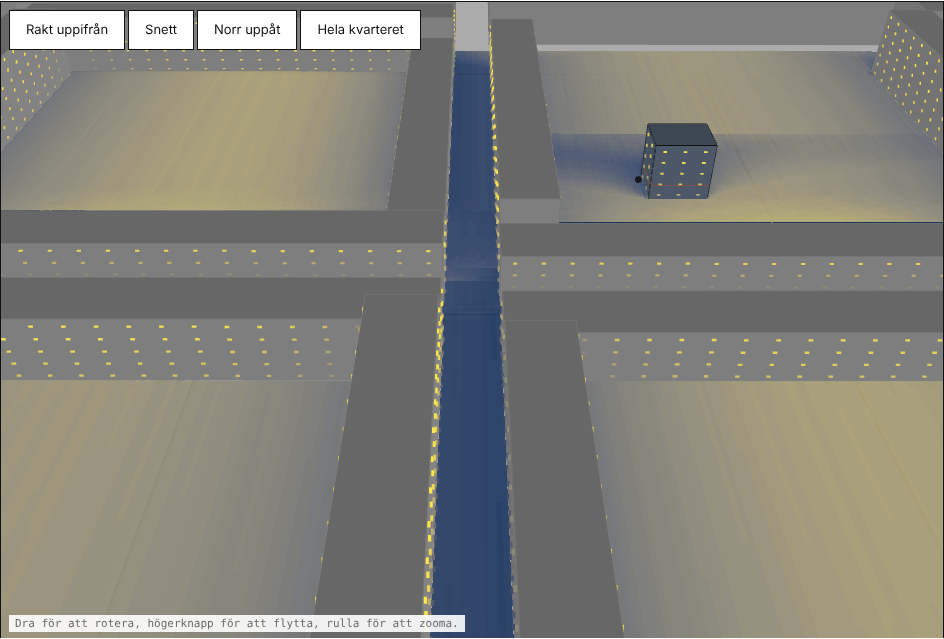
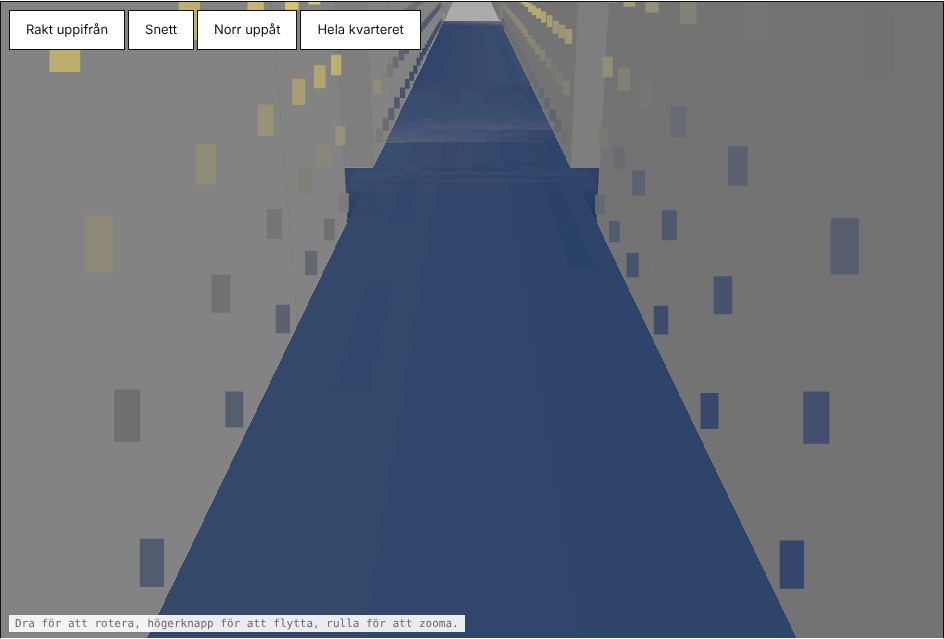
3D: färgkontroll (readPixels), punktFarger, färghantering i egen modul, VSC-bild längs gatan
Claude-Session: https://claude.ai/code/session_016wGtwwhwzUCjpQaE8vxEd6

diff --git a/webb/src/vy3d/scen.ts b/webb/src/vy3d/scen.ts
@@ -12,14 +12,12 @@
 import {
   BufferAttribute,
   BufferGeometry,
-  ColorManagement,
   DataTexture,
   DirectionalLight,
   DoubleSide,
   Float32BufferAttribute,
   Group,
   HemisphereLight,
-  LinearSRGBColorSpace,
   LineBasicMaterial,
   LineSegments,
   Mesh,
@@ -42,7 +40,8 @@ import {
 import { OrbitControls } from "three/examples/jsm/controls/OrbitControls.js";
 import type { Teckenforklaring } from "../fragor-typer.ts";
 import { byggnadText, fasadText, straleMotHojdfalt, type FasadVarden } from "./avlasning.ts";
-import { fargaCeller, fargFor, VSC_TECKENFORKLARING, vscSkillnadsskala } from "./farger.ts";
+import { stallInRenderare } from "./farghantering.ts";
+import { fargaCeller, fargFor, punktFarger, VSC_TECKENFORKLARING, vscSkillnadsskala } from "./farger.ts";
 import type { Behallare } from "./format.ts";
 import {
   byggnaderFran,
@@ -66,7 +65,7 @@ import { franScen, kameraPosition, kameraVinklar, SYNFALT_GRADER, tillScen, type
 import { arVattenYta, type SidKonfig, type Uppdelning } from "./lagerval.ts";
 import { rutNyckel, valjRutor, type Rut } from "./rutnat.ts";
 
-ColorManagement.enabled = false;
+// Färghanteringen är avslagen i farghantering.ts (datafärger = samma RGB som i 2D).
 
 const MARK_GRA = 0xe9e9e9;
 const HUS_OFORANDRAD = 0xd2d2d2;
@@ -195,7 +194,7 @@ export class Vy3d {
   ) {
     this.o = info.origo;
     this.renderer = new WebGLRenderer({ antialias: true, powerPreference: "high-performance", preserveDrawingBuffer: true });
-    this.renderer.outputColorSpace = LinearSRGBColorSpace;
+    stallInRenderare(this.renderer);
     this.renderer.setPixelRatio(Math.min(window.devicePixelRatio || 1, 2));
     this.renderer.setClearColor(0xf2f2f2, 1);
     this.renderer.shadowMap.enabled = false;
@@ -572,19 +571,10 @@ export class Vy3d {
     const skillnad = (d.skillnad as Float32Array | undefined) ?? null;
     const fore = (d.vsc_fore as Float32Array | undefined) ?? null;
     const data: FasadData = { antal: n, vsc, fore, skillnad, vaning: d.vaning as Uint16Array, byggnad: d.byggnad as Uint32Array, byggnadIds: h.byggnad_ids };
-    const farger = new Float32Array(n * 3);
     let storst = 0.5;
     if (skillnad) for (const v of skillnad) if (Number.isFinite(v)) storst = Math.max(storst, Math.abs(v));
     const tf: Teckenforklaring = f.jamfor && skillnad ? vscSkillnadsskala(storst) : VSC_TECKENFORKLARING;
-    for (let i = 0; i < n; i++) {
-      const v = f.jamfor && skillnad ? (skillnad[i] as number) : (vsc[i] as number);
-      const c = fargFor(tf, v);
-      // Punkt utan värde (ingen jämförelse eller inget resultat) ritas grå, aldrig som ett värde.
-      const rgb: [number, number, number] = c[3] === 0 ? (Number.isFinite(v) ? [235, 235, 235] : [154, 154, 154]) : [c[0], c[1], c[2]];
-      farger[i * 3] = rgb[0] / 255;
-      farger[i * 3 + 1] = rgb[1] / 255;
-      farger[i * 3 + 2] = rgb[2] / 255;
-    }
+    const farger = punktFarger(tf, f.jamfor && skillnad ? skillnad : vsc);
     const g = new BufferGeometry();
     g.setAttribute("position", new BufferAttribute(pos, 3));
     g.setAttribute("color", new BufferAttribute(farger, 3));

diff --git a/webb/src/vy3d/farger.test.ts b/webb/src/vy3d/farger.test.ts
@@ -1,7 +1,9 @@
 import assert from "node:assert/strict";
 import { test } from "node:test";
 import type { Teckenforklaring } from "../fragor-typer.ts";
-import { fargaCeller, fargFor, VSC_TECKENFORKLARING } from "./farger.ts";
+import { Color, ColorManagement, LinearSRGBColorSpace, NoToneMapping } from "three";
+import { stallInRenderare } from "./farghantering.ts";
+import { fargaCeller, fargFor, punktFarger, VSC_TECKENFORKLARING } from "./farger.ts";
 
 // Facit: serverns _sekventiell, _vatten och _skillnad (src/webb/resultatlager.py) för samma värden.
 const SEK: Teckenforklaring = { typ: "kontinuerlig", min: 0, max: 12, stopp: ["#00204d", "#31446b", "#666970", "#958f78", "#cbba69", "#ffea46"] };
@@ -59,4 +61,31 @@ test("fargaCeller färgar en textur ur uppskalade värden och lämnar 'inget vä
   const ut = new Uint8Array(12);
   fargaCeller(q, 0, 12, SEK, ut);
   assert.deepEqual(Array.from(ut), [0, 32, 77, 255, 255, 234, 70, 255, 0, 0, 0, 0]);
+});
+
+test("punktFarger: samma RGB som fargFor och teckenförklaringen, inte linjäriserat", () => {
+  const v = [0, 10, 16.4, 27, 40, Number.NaN];
+  const f = punktFarger(VSC_TECKENFORKLARING, v);
+  for (let i = 0; i < 5; i++) {
+    const c = fargFor(VSC_TECKENFORKLARING, v[i] as number);
+    assert.deepEqual([f[i * 3], f[i * 3 + 1], f[i * 3 + 2]].map((x) => Math.round((x as number) * 255)), [c[0], c[1], c[2]]);
+  }
+  assert.deepEqual([f[15], f[16], f[17]].map((x) => Math.round((x as number) * 255)), [154, 154, 154]);
+  // Mörkt blått stannar mörkt: en sRGB till linjär-omräkning skulle ge 0 för (0, 32, 77) men 8 på blå kanalen -> inte här.
+  assert.equal(Math.round((f[1] as number) * 255), 32);
+});
+
+test("renderarens färghantering är av: en färg i 3D är exakt den i 2D", () => {
+  // farghantering.ts slår av färghanteringen när den läses in; annars tolkar three.js vertexfärger som
+  // linjära och kodar om dem till sRGB vid utdata (mörka färger blir ljusa).
+  assert.equal(ColorManagement.enabled, false);
+  const r = { outputColorSpace: "srgb", toneMapping: 4 };
+  stallInRenderare(r);
+  assert.equal(r.outputColorSpace, LinearSRGBColorSpace);
+  assert.equal(r.toneMapping, NoToneMapping);
+  const c = new Color().setRGB(32 / 255, 77 / 255, 140 / 255);
+  assert.equal(Math.round(c.r * 255), 32);
+  assert.equal(Math.round(c.g * 255), 77);
+  assert.equal(Math.round(c.b * 255), 140);
+  assert.equal(new Color(0x00204d).g, 32 / 255);
 });

diff --git a/webb/src/vy3d/farger.ts b/webb/src/vy3d/farger.ts
@@ -64,3 +64,21 @@ export function fargaCeller(q: Uint16Array, lo: number, hi: number, tf: Teckenfo
     ut[i * 4 + 3] = c[3];
   }
 }
+
+/**
+ * Vertexfärger (0..1, samma RGB som `fargFor`, inte linjäriserade) för en punkt per värde. Punkt utan
+ * värde ritas grå, aldrig som ett värde. Renderaren har färghantering av och utdata i linjärt läge,
+ * så det som står här är exakt det som hamnar i bilden.
+ */
+export function punktFarger(tf: Teckenforklaring, varden: ArrayLike<number>): Float32Array {
+  const ut = new Float32Array(varden.length * 3);
+  for (let i = 0; i < varden.length; i++) {
+    const v = varden[i] as number;
+    const c = fargFor(tf, v);
+    const rgb: [number, number, number] = c[3] === 0 ? (Number.isFinite(v) ? [235, 235, 235] : [154, 154, 154]) : [c[0], c[1], c[2]];
+    ut[i * 3] = rgb[0] / 255;
+    ut[i * 3 + 1] = rgb[1] / 255;
+    ut[i * 3 + 2] = rgb[2] / 255;
+  }
+  return ut;
+}

diff --git a/webb/src/vy3d/farghantering.ts b/webb/src/vy3d/farghantering.ts
@@ -1,0 +1,14 @@
+/*
+ * Färghantering för datafärger. Datafärger (soltimmar, VSC, vatten) är redan sRGB-värden ur
+ * teckenförklaringen och ska hamna oförändrade i bilden. three.js (r152+) tolkar annars vertexfärger
+ * som linjära och sRGB-kodar dem vid utdata, så mörka färger blir ljusa och urblekta. Därför: av.
+ * Importen har den effekten, och renderaren sätts upp med `stallInRenderare`.
+ */
+import { ColorManagement, LinearSRGBColorSpace, NoToneMapping } from "three";
+
+ColorManagement.enabled = false;
+
+export function stallInRenderare(r: { outputColorSpace: string; toneMapping: number }): void {
+  r.outputColorSpace = LinearSRGBColorSpace;
+  r.toneMapping = NoToneMapping;
+}

diff --git a/tools/webb_skarmbild.py b/tools/webb_skarmbild.py
@@ -15,6 +15,8 @@ höjdpanel, före och efter) mot `floden webb`; scenariot som ritas sparas lokal
 Med `--3d` tas docs/bilder/3d-*.png (soltimmar före och efter på marken, VSC på fasaderna,
 vattenyta och ett ritat hus i 3D) mot `floden webb` efter `floden demo`.
 
+Med `--3d-farg` läses pixlar av för punkter med kända färger (kräver `--3d`-vyn, inget sparas).
+
 Med `--demo` tas i stället docs/bilder/demo-*.png (start, projekt, karta bred och smal,
 frågesidan) mot `floden webb` (som serverar klienten själv, standard
 http://127.0.0.1:8765) efter `floden demo`. Inget körs om: resultaten läses ur cachen.
@@ -149,13 +151,13 @@ def _vy3d(webblasare: Browser, url: str) -> None:
     ta(sida, "soltimmar-fore")
     lage(sida, "Efter")
     ta(sida, "soltimmar-efter")
-    ruta = sida.locator("#vy3d-yta canvas").first.bounding_box()
-    assert ruta is not None
-    sida.mouse.move(ruta["x"] + ruta["width"] * 0.58, ruta["y"] + ruta["height"] * 0.4)
-    for _ in range(6):
-        sida.mouse.wheel(0, -300)
-        sida.wait_for_timeout(300)
-    sida.wait_for_timeout(4000)
+    # Längs den smala gatan (E 151350) norrut: gatufasaderna syns från marknivå och uppåt, så att
+    # det går att jämföra de mörkare nedre våningarna med de ljusa översta.
+    sida.evaluate(
+        "window.__floden3d.settKamera({ mal: { e: 151350, n: 6580345, z: 8 },"
+        " avstand: 45, azimut: 0, lutning: 68 })"
+    )
+    sida.wait_for_timeout(5000)
     ta(sida, "vsc-fasader")
     sida.close()
 
@@ -192,6 +194,45 @@ def _vy3d(webblasare: Browser, url: str) -> None:
     lage(sida, "Snett", 2500)
     lage(sida, "Före", 2500)
     ta(sida, "ritat-hus")
+    sida.close()
+
+
+_FARGPROV_JS = """() => {
+  const v = window.__floden3d, sc0 = v.sidor[0], fp = sc0.fasadPunkter;
+  const Points = fp.constructor, Mesh = sc0.terrang.children[0]?.constructor ?? null, Geo = fp.geometry.constructor;
+  const Mat = fp.material.constructor, Scene = sc0.scene.constructor, Attr = fp.geometry.attributes.color.constructor;
+  const Cam = v.camera.constructor, cam = new Cam(); cam.position.set(0, 0, 10); cam.lookAt(0, 0, 0);
+  const r = v.renderer, gl = r.getContext(), res = [];
+  const cols = [[0, 32, 77], [49, 68, 107], [102, 105, 112], [203, 186, 105], [255, 234, 70], [43, 93, 140]];
+  for (const c of cols) {
+    const sc = new Scene(), g = new Geo();
+    g.setAttribute('position', new Attr(new Float32Array([0, 0, 0]), 3));
+    g.setAttribute('color', new Attr(new Float32Array(c.map((x) => x / 255)), 3));
+    sc.add(new Points(g, new Mat({ size: 300, sizeAttenuation: false, vertexColors: true })));
+    r.setScissorTest(false); r.setClearColor(0xffffff, 1); r.clear(); r.render(sc, cam);
+    const px = new Uint8Array(4);
+    gl.readPixels(gl.drawingBufferWidth >> 1, gl.drawingBufferHeight >> 1, 1, 1, gl.RGBA, gl.UNSIGNED_BYTE, px);
+    res.push([c, Array.from(px).slice(0, 3)]);
+  }
+  return { res, farg: r.outputColorSpace, ton: r.toneMapping };
+}"""
+
+
+def _vy3d_farg(webblasare: Browser, url: str) -> None:
+    """Rendera punkter med kända färger och läs av pixlarna: en färg i 3D är exakt skalans RGB."""
+    sida = webblasare.new_page(viewport={"width": 1440, "height": 1000})
+    sida.goto(f"{url}/#/karta/demokvarteret?vy=dagsljus-hojd")
+    sida.wait_for_selector("#vy-yta canvas", timeout=60_000)
+    sida.wait_for_timeout(1500)
+    sida.click('[data-visa="3d"]')
+    sida.wait_for_function("window.__floden3d !== undefined", timeout=60_000)
+    sida.wait_for_timeout(5000)
+    ut = sida.evaluate(_FARGPROV_JS)
+    for ford, last in ut["res"]:
+        diff = max(abs(a - b) for a, b in zip(ford, last, strict=True))
+        print(f"skala {ford} -> pixel {last} (största avvikelse {diff})")
+        assert diff <= 1, "färgen i 3D avviker från skalans färg"
+    print("utdatafärgrum", ut["farg"], "tonmappning", ut["ton"])
     sida.close()
 
 
@@ -262,10 +303,11 @@ def main() -> None:
         "--kartverktyg", action="store_true", help="ta kartverktyg-*.png mot floden webb"
     )
     ap.add_argument("--3d", dest="vy3d", action="store_true", help="ta 3d-*.png mot floden webb")
+    ap.add_argument("--3d-farg", dest="vy3d_farg", action="store_true", help="prova att 3D-färger är exakta")
     ap.add_argument("--url", default=None)
     ap.add_argument("--chrome", default="/usr/bin/google-chrome")
     args = ap.parse_args()
-    url = args.url or ("http://127.0.0.1:8765" if args.demo or args.kartverktyg or args.vy3d else "http://127.0.0.1:5173")
+    url = args.url or ("http://127.0.0.1:8765" if args.demo or args.kartverktyg or args.vy3d or args.vy3d_farg else "http://127.0.0.1:5173")
     UT.mkdir(parents=True, exist_ok=True)
     with sync_playwright() as p:
         # Kartan är MapLibre (WebGL): utan grafikkort används programvaruritning.
@@ -280,6 +322,10 @@ def main() -> None:
         )
         if args.kartverktyg:
             _kartverktyg(webblasare, url)
+        if args.vy3d_farg:
+            _vy3d_farg(webblasare, url)
+            webblasare.close()
+            return
         if args.vy3d:
             _vy3d(webblasare, url)
             webblasare.close()

diff --git a/STATUS.md b/STATUS.md
@@ -5,6 +5,7 @@ Senaste posten överst. Format i `AGENTS.md`.
 ## 2026-11-22 – 3D-vy – Kvarteret i 3D (Three.js) som egen vy i lagerpanelen
 Gjort: (1) **Val:** egen vy med egen canvas (`egenVy`) i stället för MapLibre custom layer: eget perspektiv i SWEREF-meter med exakta höjder, två scener för svep och sida vid sida, och Three.js (0.170.0, 526 kB, 136 kB gzip) laddas vid behov så huvudbunten bara växte 15 kB (980 till 995 kB). Kameran startar synkad med kartan (mitt och meter per pixel) och tiltas sedan. (2) **Server** (`src/webb/vy3d.py`, `vy3d_format.py`, `GET /api/3d/...`): terrängrutor (fast nät i EPSG:3011, 128 celler per ruta, nedsamplat blockmedel per nivå, uint16), byggnader ur scenariots rutor med status ny/ändrad/bort mot bas, marklager ur körningens sparade `.npy` (tak blir inget värde), VSC-fasadpunkter per våning ur `vsc.csv`, minnes- och diskcache, binärt format `floden-3d/v1`. (3) **Klient** (`webb/src/vy3d/`, `kartsida3d.ts`): kvadträd med nivåval efter avstånd, kjolar mot sprickor, soltimmar draperade på marken med samma skala och takmask som 2D, VSC som färgade punkter på fasaderna, vattenyta (plattor vid mark + djup, minst 0,02 m), före/efter/skillnad/svep/sida vid sida, hovring med värde, ritat hus live (tak = median markhöjd + höjd, som servern), lager och täckning i samma panel (`LagerDef.visning`). Inga skuggor beräknas i Three.js. Luft och buller visas som otillgängliga lager med förklaring. (4) README visningsguide, `docs/WEBB3D.md`, `tools/webb_skarmbild.py --3d`, bilder `docs/bilder/3d-*.png`.
 Mätt: `python -m pytest -q` (FLODEN_TIDSFAKTOR=4) **1911 OK, 47 skippade** (371 s); nya `tests/webb/test_vy3d.py` **31** (utbredning, nedsampling, takmask, K9-ändringar följer, bufferformat). Klient `npm ci && npm run typecheck && npm test (91 OK) && npm run build` gröna. `floden testsvit` **13/13**, `--grupp E` **7/7**; ruff 0.8.4 (`python -m ruff`) ren på src, tests, tools, testsvit; mypy 1.14.1 ren på src (256 filer). Demo 700 x 700 m: till 3D ca 6,5 s (programvaru-WebGL, inkl. hämtning), 42 anrop och 1,4 MB (terräng 671 kB, mark 530 kB, fasad 188 kB, byggnader 6 kB per scenario); bildfrekvens **1,7 bilder/s** i svep (två scener, 197 000 trianglar, 1440 px) med **programvaru-WebGL (SwiftShader)**: ingen grafikkort-mätning gjord. Granskade bilder: skuggor faller norr om husen (mörkt band vid gårdens södra kant, skugga norr om det höjda huset), vattnet ligger i sänkan i sydvästra gården och sprids mot det nya huset, samma läge och form som i 2D. Rättat efter granskning: förslagshus var nästan svarta (nu ljusare blågrått).
+Färgkontroll efter granskning (misstänkt färgrumsfel): vertexfärgerna är redan exakt `fargFor`-RGB (färghantering av, utdata linjärt, ingen tonmappning, `vy3d/farghantering.ts`); `tools/webb_skarmbild.py --3d-farg` renderar punkter med sex kända skalfärger och läser pixlarna med readPixels: största avvikelse 0 av 255. Fasaddatan ger mörka nedre våningar (t.ex. E 151344: 9,9 till 12,6 % våning 1, grå-blå) och gula översta (38 till 40 %); bilden såg gul ut för att ovanvyn mest visar övre våningar och den förra vinkeln dolde gatufasaderna. `3d-vsc-fasader.png` tas nu längs gatan så att gradienten syns. Nya enhetstester (`farger.test.ts`): `punktFarger` = `fargFor`, färghanteringen av.
 Öppet: (1) Inte provat med riktigt grafikkort. (2) Vegetation ritas inte; luft och buller saknar 3D-resultat; vattnets tidsreglage är bara förberett (demon har bara maxdjup). (3) Byggnader hämtas för hela området i ett svar: för stora områden behövs rutvis hämtning. (4) Rutor utan data ger HTTP 404 (konsolrad). (5) Svaga skarvar syns mellan terrängrutor. (6) Pekskärm och mobil ej prövat.
 Nästa: Joel provkör på Mac med grafikkort; rutvisa byggnader för riktiga områden; vattnets tidsreglage när en dynamisk körning finns.
 

diff --git a/docs/WEBB3D.md b/docs/WEBB3D.md
@@ -49,4 +49,5 @@ bara några tiotal rutor åt gången. Byggnader hämtas i dag för hela området
 - Vattnets tidsreglage är förberett (`djup_t<minut>`-lager) men demon har bara maxdjup.
 - Rutor utan data i ett lager ger HTTP 404 (en rad i webbläsarens konsol, hanteras av klienten).
 - Provat med programvaru-WebGL (SwiftShader), inte med grafikkort.
+- Färger: datafärger ritas utan färghantering och tonmappning (`vy3d/farghantering.ts`), så en färg i 3D är exakt skalans RGB; `tools/webb_skarmbild.py --3d-farg` läser av pixlar mot skalan.
 - Mäthandtag `window.__floden3d` används av `tools/webb_skarmbild.py --3d`.
